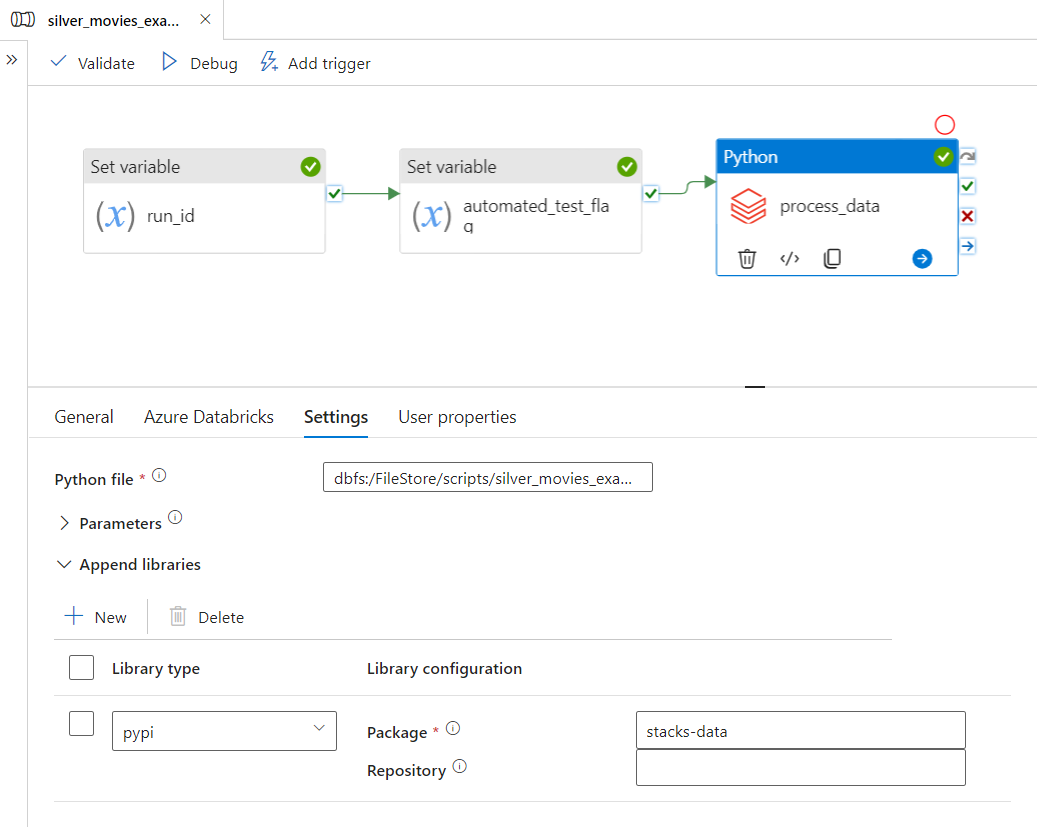
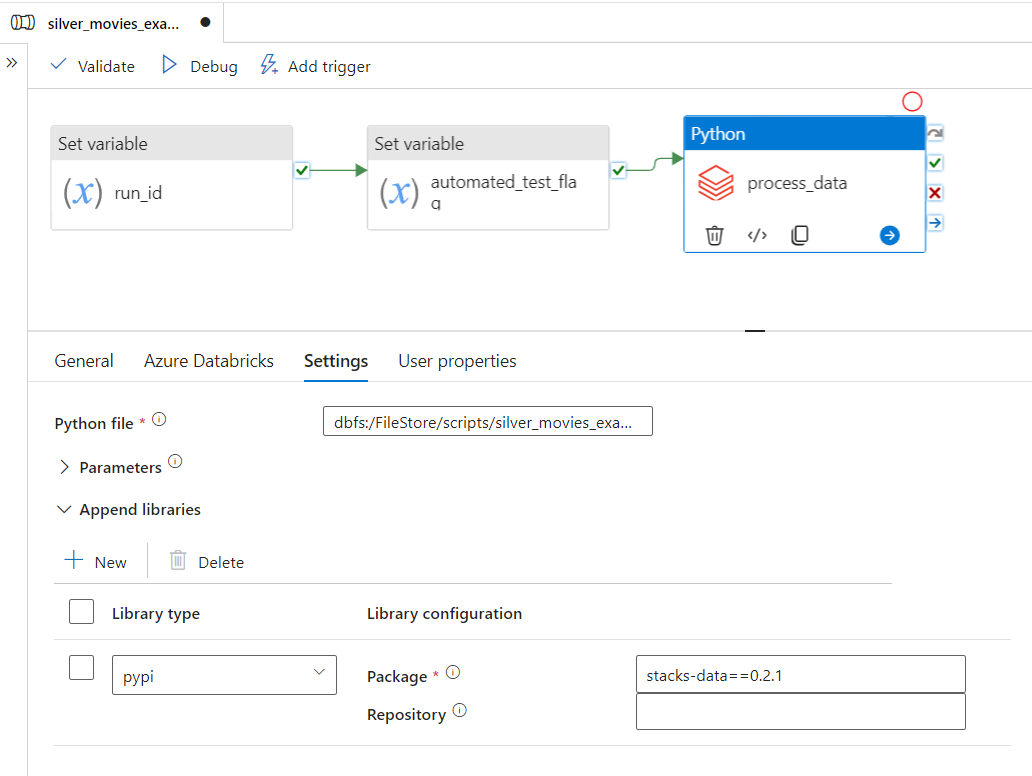
add package version number

diff --git a/docs/workloads/azure/data/data_engineering/data_processing.md b/docs/workloads/azure/data/data_engineering/data_processing.md
@@ -52,6 +52,12 @@ An example pipeline is shown below:
 
 The pipeline contains a Python Databricks activity which runs the `process.py` file. The [stacks-data library](./stacks_data_utilities.md) is installed on the cluster via PyPi.
 
+:::tip
+
+It is recommended that specific versions of packages are defined in the Databricks Library configuration (e.g. `stacks-data==0.1.2`) to ensure a reproducible environment for running jobs. This is the default approach when generating workloads using [Datastacks CLI](./datastacks.md). If the version is omitted (e.g. `stacks-data`), then Databricks will use the latest available version - however this is not recommended.
+
+:::
+
 ### Passing parameters from Data Factory
 
 You may pass parameters from Data Factory to the Python job executed in Databricks. These are defined in the Settings section of the Databricks Python activity:

diff --git a/docs/workloads/azure/data/data_engineering/datastacks.md b/docs/workloads/azure/data/data_engineering/datastacks.md
@@ -76,6 +76,7 @@ In order to generate a new data engineering workload the Datastacks CLI takes a 
 | ado_variable_groups_nonprod | List of required variable groups in non-production environment. | Yes | List[String] | _n/a_ | - amido-stacks-de-pipeline-nonprod<br />- stacks-credentials-nonprod-kv |
 | ado_variable_groups_prod | List of required variable groups in production environment. | Yes | List[String] | _n/a_ | - amido-stacks-de-pipeline-prod<br />- stacks-credentials-prod-kv |
 | default_arm_deployment_mode | Deployment mode for terraform. | No | String | "Incremental" | Incremental |
+| stacks_data_package_version | Version of the [stacks-data](./stacks_data_utilities.md) Python package in PyPi to install on the job cluster. | No | String (SemVer pattern) | _Latest available package at the time of generation_ | 0.1.2 |
 
 #### Ingest workloads
 
